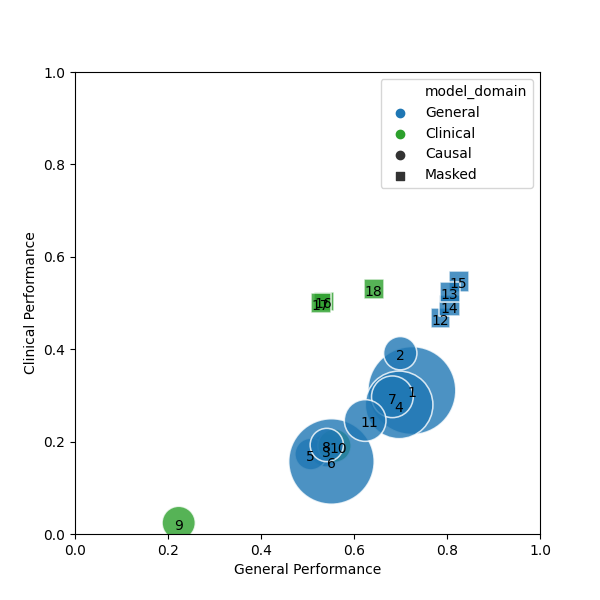
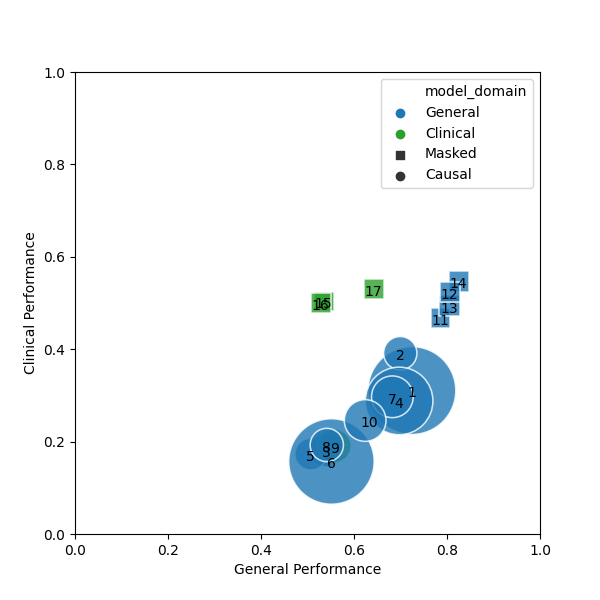
medalpaca and no biomedlm

diff --git a/tabs_and_plots/results_table.tex b/tabs_and_plots/results_table.tex
@@ -6,34 +6,33 @@
 \midrule
  \multicolumn{17}{l}{\textit{Few-shot approaches}} \\
 \midrule
-\multirow{11}{*}{\rotatebox[origin=c]{90}{Causal}} & 1 & LLAMA-70B & 0.728 & 0.721 & 0.312 & 0.309 & - & 0.74 & 0.4 & 0.483 & 0.201 & 0.312 & 0.805 & 0.616 & 0.021 & - \\
+\multirow{10}{*}{\rotatebox[origin=c]{90}{Causal}} & 1 & LLAMA-70B & 0.728 & 0.721 & 0.312 & 0.309 & - & 0.74 & 0.4 & 0.483 & 0.201 & 0.312 & 0.805 & 0.616 & 0.021 & - \\
  & 2 & Mistral-7B & 0.754 & 0.645 & 0.488 & 0.291 & 0.395 & 0.727 & 0.428 & 0.59 & 0.229 & 0.333 & 0.72 & 0.707 & 0.083 & 0.374 \\
  & 3 & BLOOM-7B1 & 0.524 & 0.557 & 0.279 & 0.113 & 0.151 & 0.136 & 0.206 & 0.32 & 0.197 & 0.12 & 0.47 & 0.419 & 0.051 & 0.117 \\
- & 4 & Falcon-40B & 0.686 & 0.708 & 0.28 & 0.279 & - & 0.662 & - & 0.378 & - & 0.283 & 0.72 & 0.543 & 0.072 & - \\
+ & 4 & Falcon-40B & 0.686 & 0.708 & 0.28 & 0.279 & 0.305 & 0.662 & - & 0.378 & - & 0.283 & 0.72 & 0.543 & 0.072 & - \\
  & 5 & GPT-J-6B & 0.521 & 0.493 & 0.167 & 0.179 & - & 0.423 & - & 0.334 & 0.08 & 0.177 & 0.005 & 0.142 & 0.021 & - \\
  & 6 & OPT-66B & 0.608 & 0.495 & - & 0.157 & - & 0.624 & 0.406 & - & 0.206 & 0.283 & - & - & - & - \\
  & 7 & Vicuna-13B & 0.657 & 0.708 & 0.355 & 0.236 & 0.3 & 0.677 & 0.35 & 0.399 & - & 0.326 & 0.744 & 0.25 & 0.04 & 0.213 \\
  & 8 & Vicuna-7B & 0.594 & 0.489 & 0.259 & 0.147 & 0.172 & 0.591 & 0.277 & 0.439 & 0.152 & 0.296 & 0.659 & 0.569 & 0.042 & 0.151 \\
- & 9 & BioMedLM & - & 0.223 & 0.024 & - & - & - & - & - & - & 0.019 & - & - & - & - \\
- & 10 & Medalpaca-7B & - & 0.558 & - & 0.191 & - & - & - & - & 0.161 & 0.224 & - & - & - & - \\
- & 11 & Vigogne-13B & 0.593 & 0.655 & 0.252 & 0.176 & 0.309 & 0.515 & 0.25 & 0.464 & 0.099 & 0.142 & 0.58 & 0.561 & 0.01 & 0.198 \\
+ & 9 & Medalpaca-7B & - & 0.558 & - & 0.191 & - & - & - & - & 0.161 & 0.224 & - & - & - & - \\
+ & 10 & Vigogne-13B & 0.593 & 0.655 & 0.252 & 0.176 & 0.309 & 0.515 & 0.25 & 0.464 & 0.099 & 0.142 & 0.58 & 0.561 & 0.01 & 0.198 \\
 \midrule
-\multirow{16}{*}{\rotatebox[origin=c]{90}{Masked}} & 12 & mBERT & 0.768 & 0.804 & 0.624 & 0.378 & 0.401 & 0.801 & 0.728 & 0.741 & 0.588 & 0.428 & 0.812 & 0.76 & 0.324 & 0.432 \\
- & 13 & XLM-RoBERTa-large & 0.786 & 0.826 & 0.637 & 0.462 & 0.471 & 0.811 & 0.781 & 0.762 & 0.629 & 0.531 & 0.797 & 0.781 & 0.325 & 0.528 \\
- & 14 & BERT-large & 0.776 & 0.835 & 0.626 & 0.435 & 0.422 & - & - & - & - & - & - & - & - & - \\
- & 15 & RoBERTa-large & 0.79 & 0.862 & 0.626 & 0.462 & 0.552 & - & - & - & - & - & - & - & - & - \\
- & 16 & Bio\_ClinicalBERT & 0.528 & 0.542 & 0.621 & 0.469 & 0.42 & - & - & - & - & - & - & - & - & - \\
- & 17 & ClinicalBERT & 0.462 & 0.597 & 0.622 & 0.48 & 0.397 & - & - & - & - & - & - & - & - & - \\
- & 18 & MedBERT & 0.613 & 0.673 & 0.607 & 0.478 & 0.504 & - & - & - & - & - & - & - & - & - \\
- & 19 & CamemBERT-large & - & - & - & - & - & 0.829 & 0.793 & 0.768 & 0.661 & 0.577 & - & - & - & - \\
- & 20 & FlauBERT-large & - & - & - & - & - & 0.826 & 0.778 & 0.76 & 0.635 & 0.542 & - & - & - & - \\
- & 21 & DrBERT-4GB & - & - & - & - & - & 0.587 & 0.599 & 0.73 & 0.602 & 0.486 & - & - & - & - \\
- & 22 & CamemBERT-bio & - & - & - & - & - & 0.782 & 0.761 & 0.779 & 0.636 & 0.549 & - & - & - & - \\
- & 23 & BETO & - & - & - & - & - & - & - & - & - & - & 0.794 & 0.732 & 0.352 & 0.522 \\
- & 24 & PatanaBERT & - & - & - & - & - & - & - & - & - & - & 0.802 & 0.769 & 0.343 & 0.487 \\
- & 25 & TulioBERT & - & - & - & - & - & - & - & - & - & - & 0.804 & 0.798 & 0.34 & 0.482 \\
- & 26 & BSC-BioEHR & - & - & - & - & - & - & - & - & - & - & 0.804 & 0.758 & 0.354 & 0.578 \\
- & 27 & BSC-Bio & - & - & - & - & - & - & - & - & - & - & 0.804 & 0.775 & 0.358 & 0.552 \\
+\multirow{16}{*}{\rotatebox[origin=c]{90}{Masked}} & 11 & mBERT & 0.768 & 0.804 & 0.624 & 0.378 & 0.401 & 0.801 & 0.728 & 0.741 & 0.588 & 0.428 & 0.812 & 0.76 & 0.324 & 0.432 \\
+ & 12 & XLM-RoBERTa-large & 0.786 & 0.826 & 0.637 & 0.462 & 0.471 & 0.811 & 0.781 & 0.762 & 0.629 & 0.531 & 0.797 & 0.781 & 0.325 & 0.528 \\
+ & 13 & BERT-large & 0.776 & 0.835 & 0.626 & 0.435 & 0.422 & - & - & - & - & - & - & - & - & - \\
+ & 14 & RoBERTa-large & 0.79 & 0.862 & 0.626 & 0.462 & 0.552 & - & - & - & - & - & - & - & - & - \\
+ & 15 & Bio\_ClinicalBERT & 0.528 & 0.542 & 0.621 & 0.469 & 0.42 & - & - & - & - & - & - & - & - & - \\
+ & 16 & ClinicalBERT & 0.462 & 0.597 & 0.622 & 0.48 & 0.397 & - & - & - & - & - & - & - & - & - \\
+ & 17 & MedBERT & 0.613 & 0.673 & 0.607 & 0.478 & 0.504 & - & - & - & - & - & - & - & - & - \\
+ & 18 & CamemBERT-large & - & - & - & - & - & 0.829 & 0.793 & 0.768 & 0.661 & 0.577 & - & - & - & - \\
+ & 19 & FlauBERT-large & - & - & - & - & - & 0.826 & 0.778 & 0.76 & 0.635 & 0.542 & - & - & - & - \\
+ & 20 & DrBERT-4GB & - & - & - & - & - & 0.587 & 0.599 & 0.73 & 0.602 & 0.486 & - & - & - & - \\
+ & 21 & CamemBERT-bio & - & - & - & - & - & 0.782 & 0.761 & 0.779 & 0.636 & 0.549 & - & - & - & - \\
+ & 22 & BETO & - & - & - & - & - & - & - & - & - & - & 0.794 & 0.732 & 0.352 & 0.522 \\
+ & 23 & PatanaBERT & - & - & - & - & - & - & - & - & - & - & 0.802 & 0.769 & 0.343 & 0.487 \\
+ & 24 & TulioBERT & - & - & - & - & - & - & - & - & - & - & 0.804 & 0.798 & 0.34 & 0.482 \\
+ & 25 & BSC-BioEHR & - & - & - & - & - & - & - & - & - & - & 0.804 & 0.758 & 0.354 & 0.578 \\
+ & 26 & BSC-Bio & - & - & - & - & - & - & - & - & - & - & 0.804 & 0.775 & 0.358 & 0.552 \\
 \midrule
 \midrule
 \multicolumn{17}{l}{\textit{Masked fully-supervised (skyline)}} \\

diff --git a/read_results.py b/read_results.py
@@ -216,12 +216,12 @@ model_hierarchy = {
                 "size": 7*B,
                 "languages" : "all",
             },
-            {
-                "name": "BioMedLM",
-                "clean_name": "BioMedLM",
-                "size": 7*B,
-                "languages" : "all",
-            }
+            # {
+            #     "name": "BioMedLM",
+            #     "clean_name": "BioMedLM",
+            #     "size": 7*B,
+            #     "languages" : "all",
+            # }
         ],
     }
 }

diff --git a/tabs_and_plots/model_names_table.tex b/tabs_and_plots/model_names_table.tex
@@ -2,8 +2,7 @@
 \toprule
 & Model & \makecell{Number of\\ parameters} & Brief description of the training data \\
 \midrule
-\multirow{11}{*}{\rotatebox[origin=c]{90}{Causal}} & BLOOM-7B1 & 7.0B & - \\
- & BioMedLM & 7.0B & - \\
+\multirow{10}{*}{\rotatebox[origin=c]{90}{Causal}} & BLOOM-7B1 & 7.0B & - \\
  & Falcon-40B & 40.0B & - \\
  & GPT-J-6B & 6.0B & - \\
  & LLAMA-70B & 70.0B & - \\

diff --git a/generate_labia_slurms.py b/generate_labia_slurms.py
@@ -149,6 +149,7 @@ models = {
     "nomic-ai/gpt4all-j": "gpt4allj",
     "gpt2-xl": "gpt2xl",
     "EleutherAI/gpt-neox-20b" : "gptneox20",
+    "medalpaca/medalpaca-7b": "medalpaca",
 }
 datasets = {
     #local datasets
